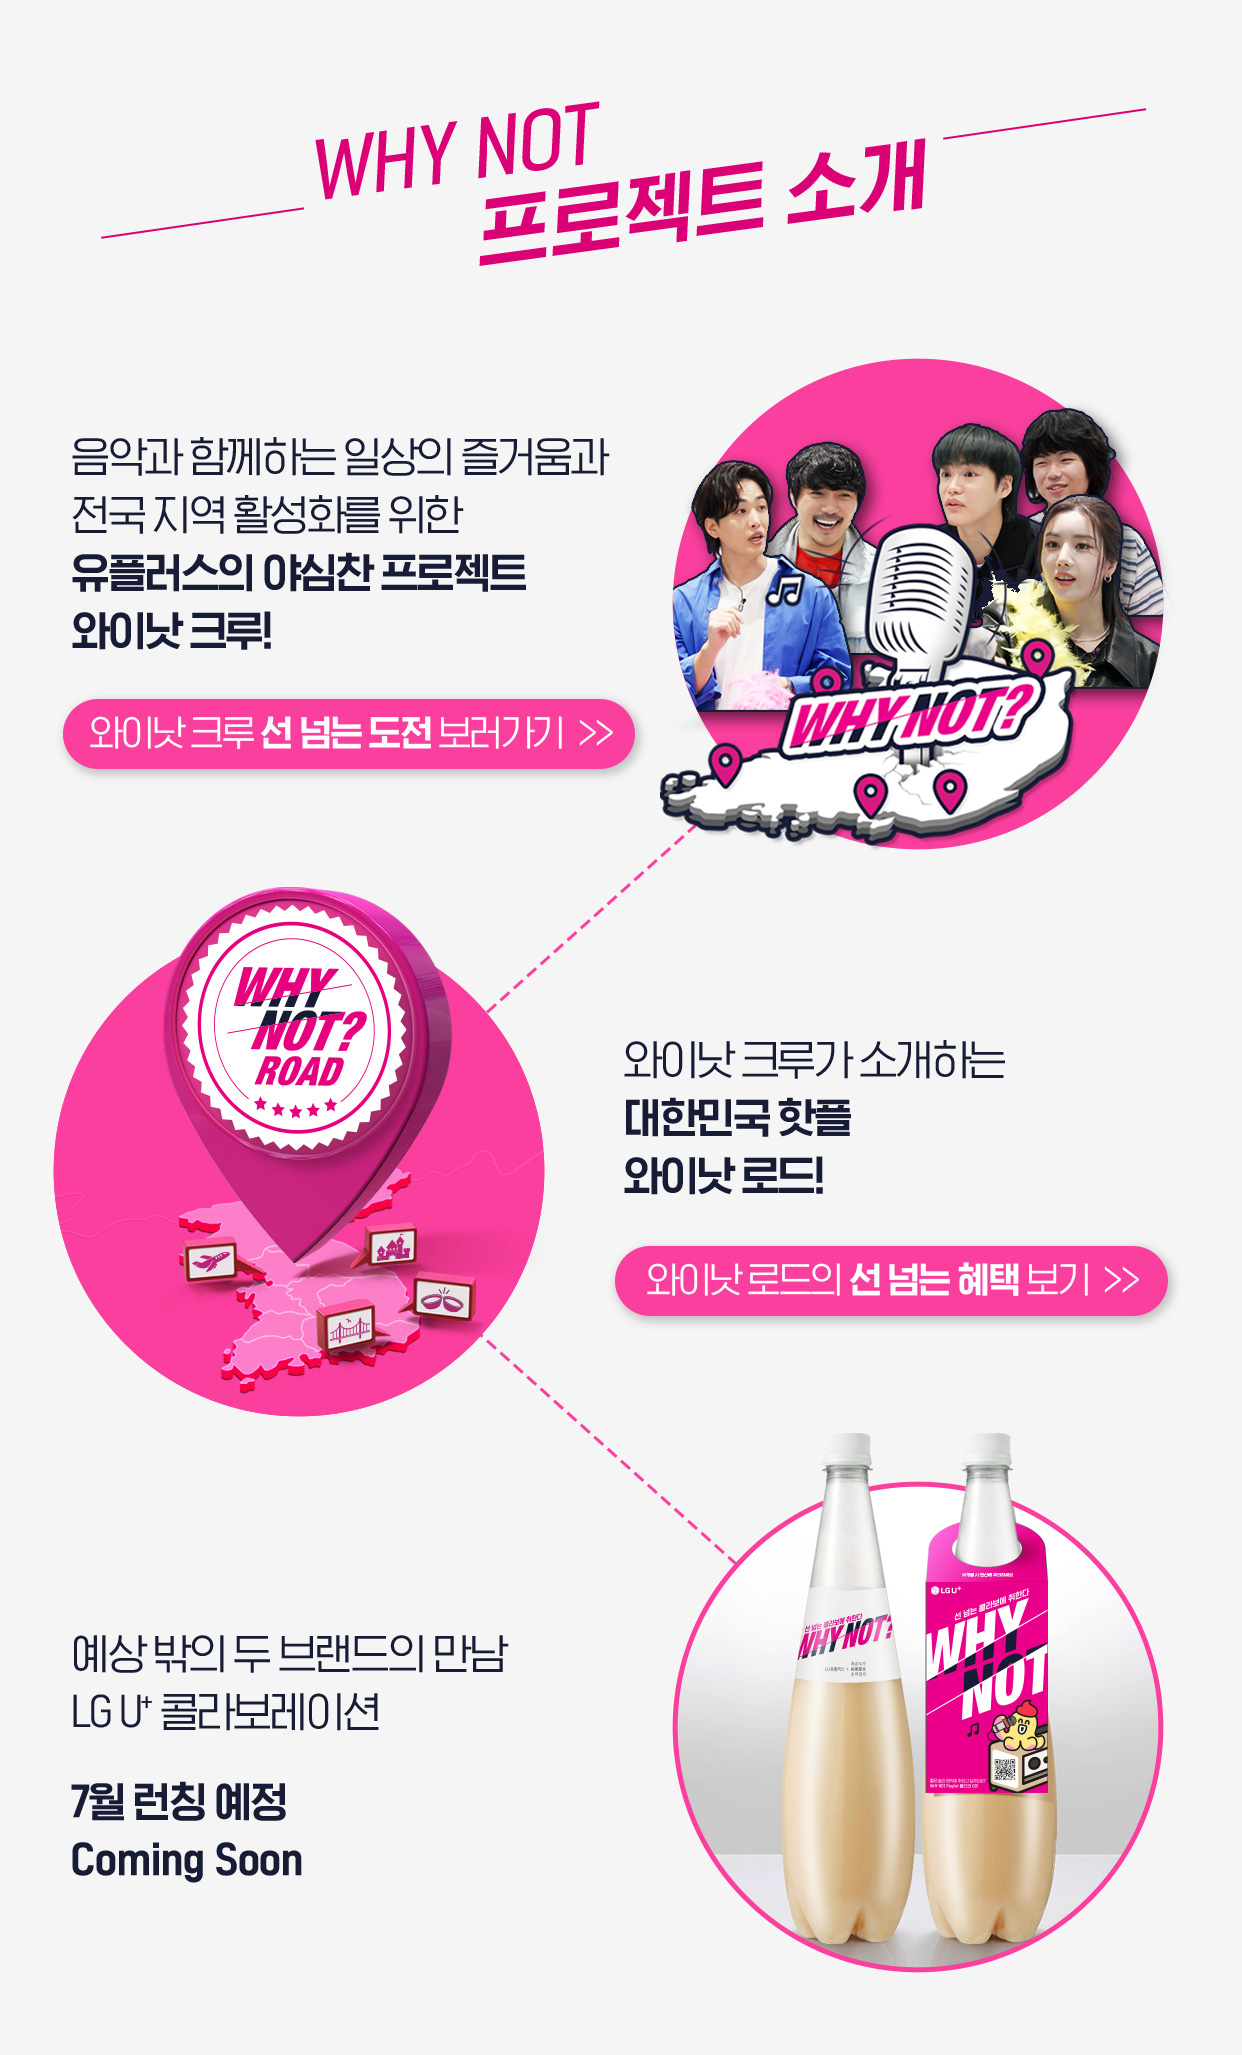
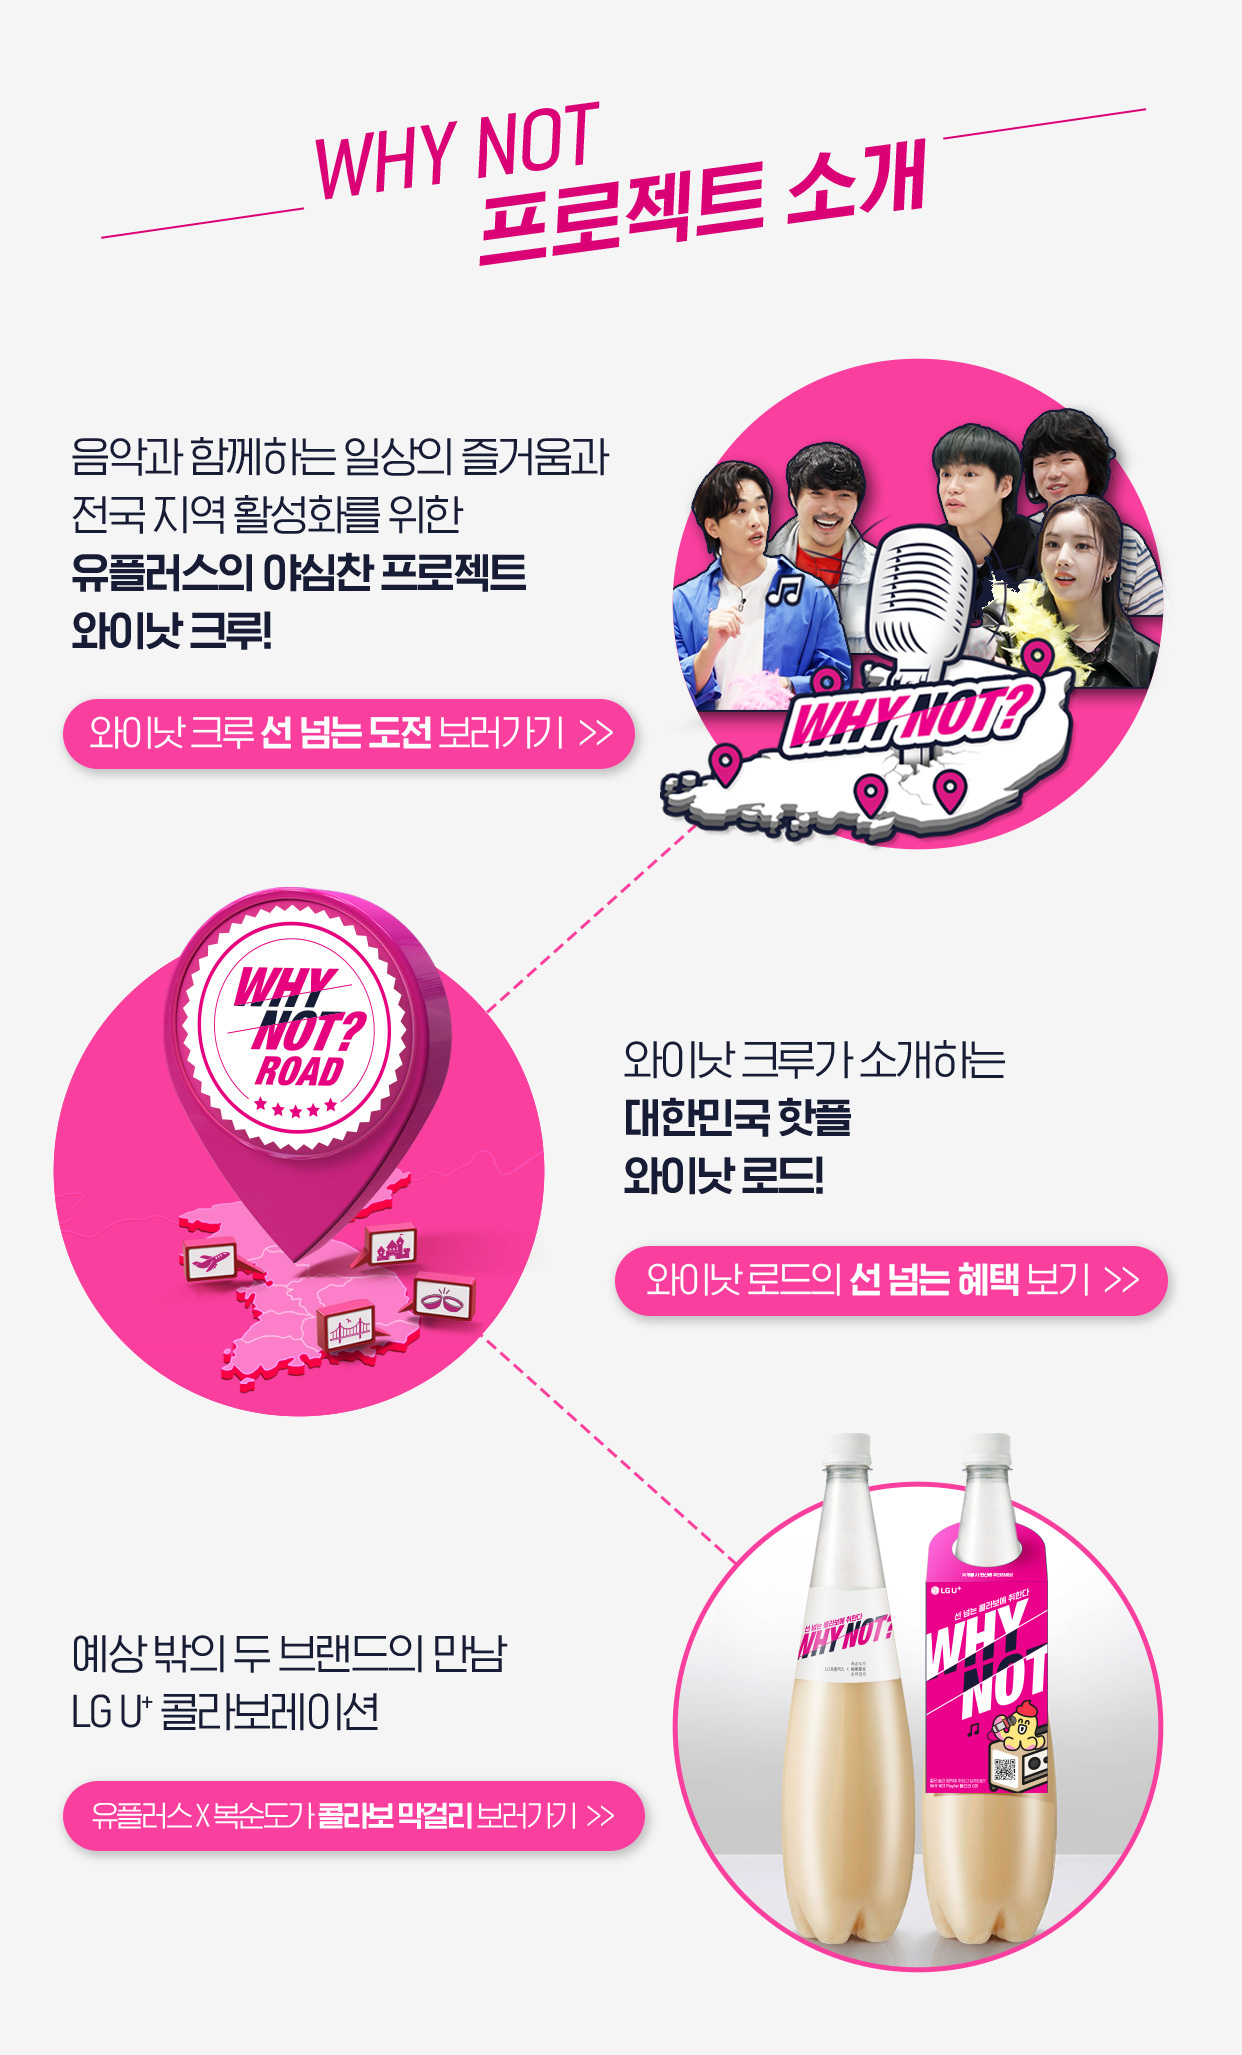
주류 수정

Changed region(s): [[0.0306, 0.8097, 0.5201, 0.9343]]

diff --git a/src/scss/web/app.scss b/src/scss/web/app.scss
@@ -185,6 +185,16 @@ img {
             }
         }
 
+        &--3 {
+            bottom: percentage(math.div(204, 2055));
+            left: percentage(math.div(63, 1242));
+            width: percentage(math.div(582, 1242));
+
+            a {
+                padding-top: percentage(math.div(70, 582));
+            }
+        }
+
         a {
             display: block;
         }
